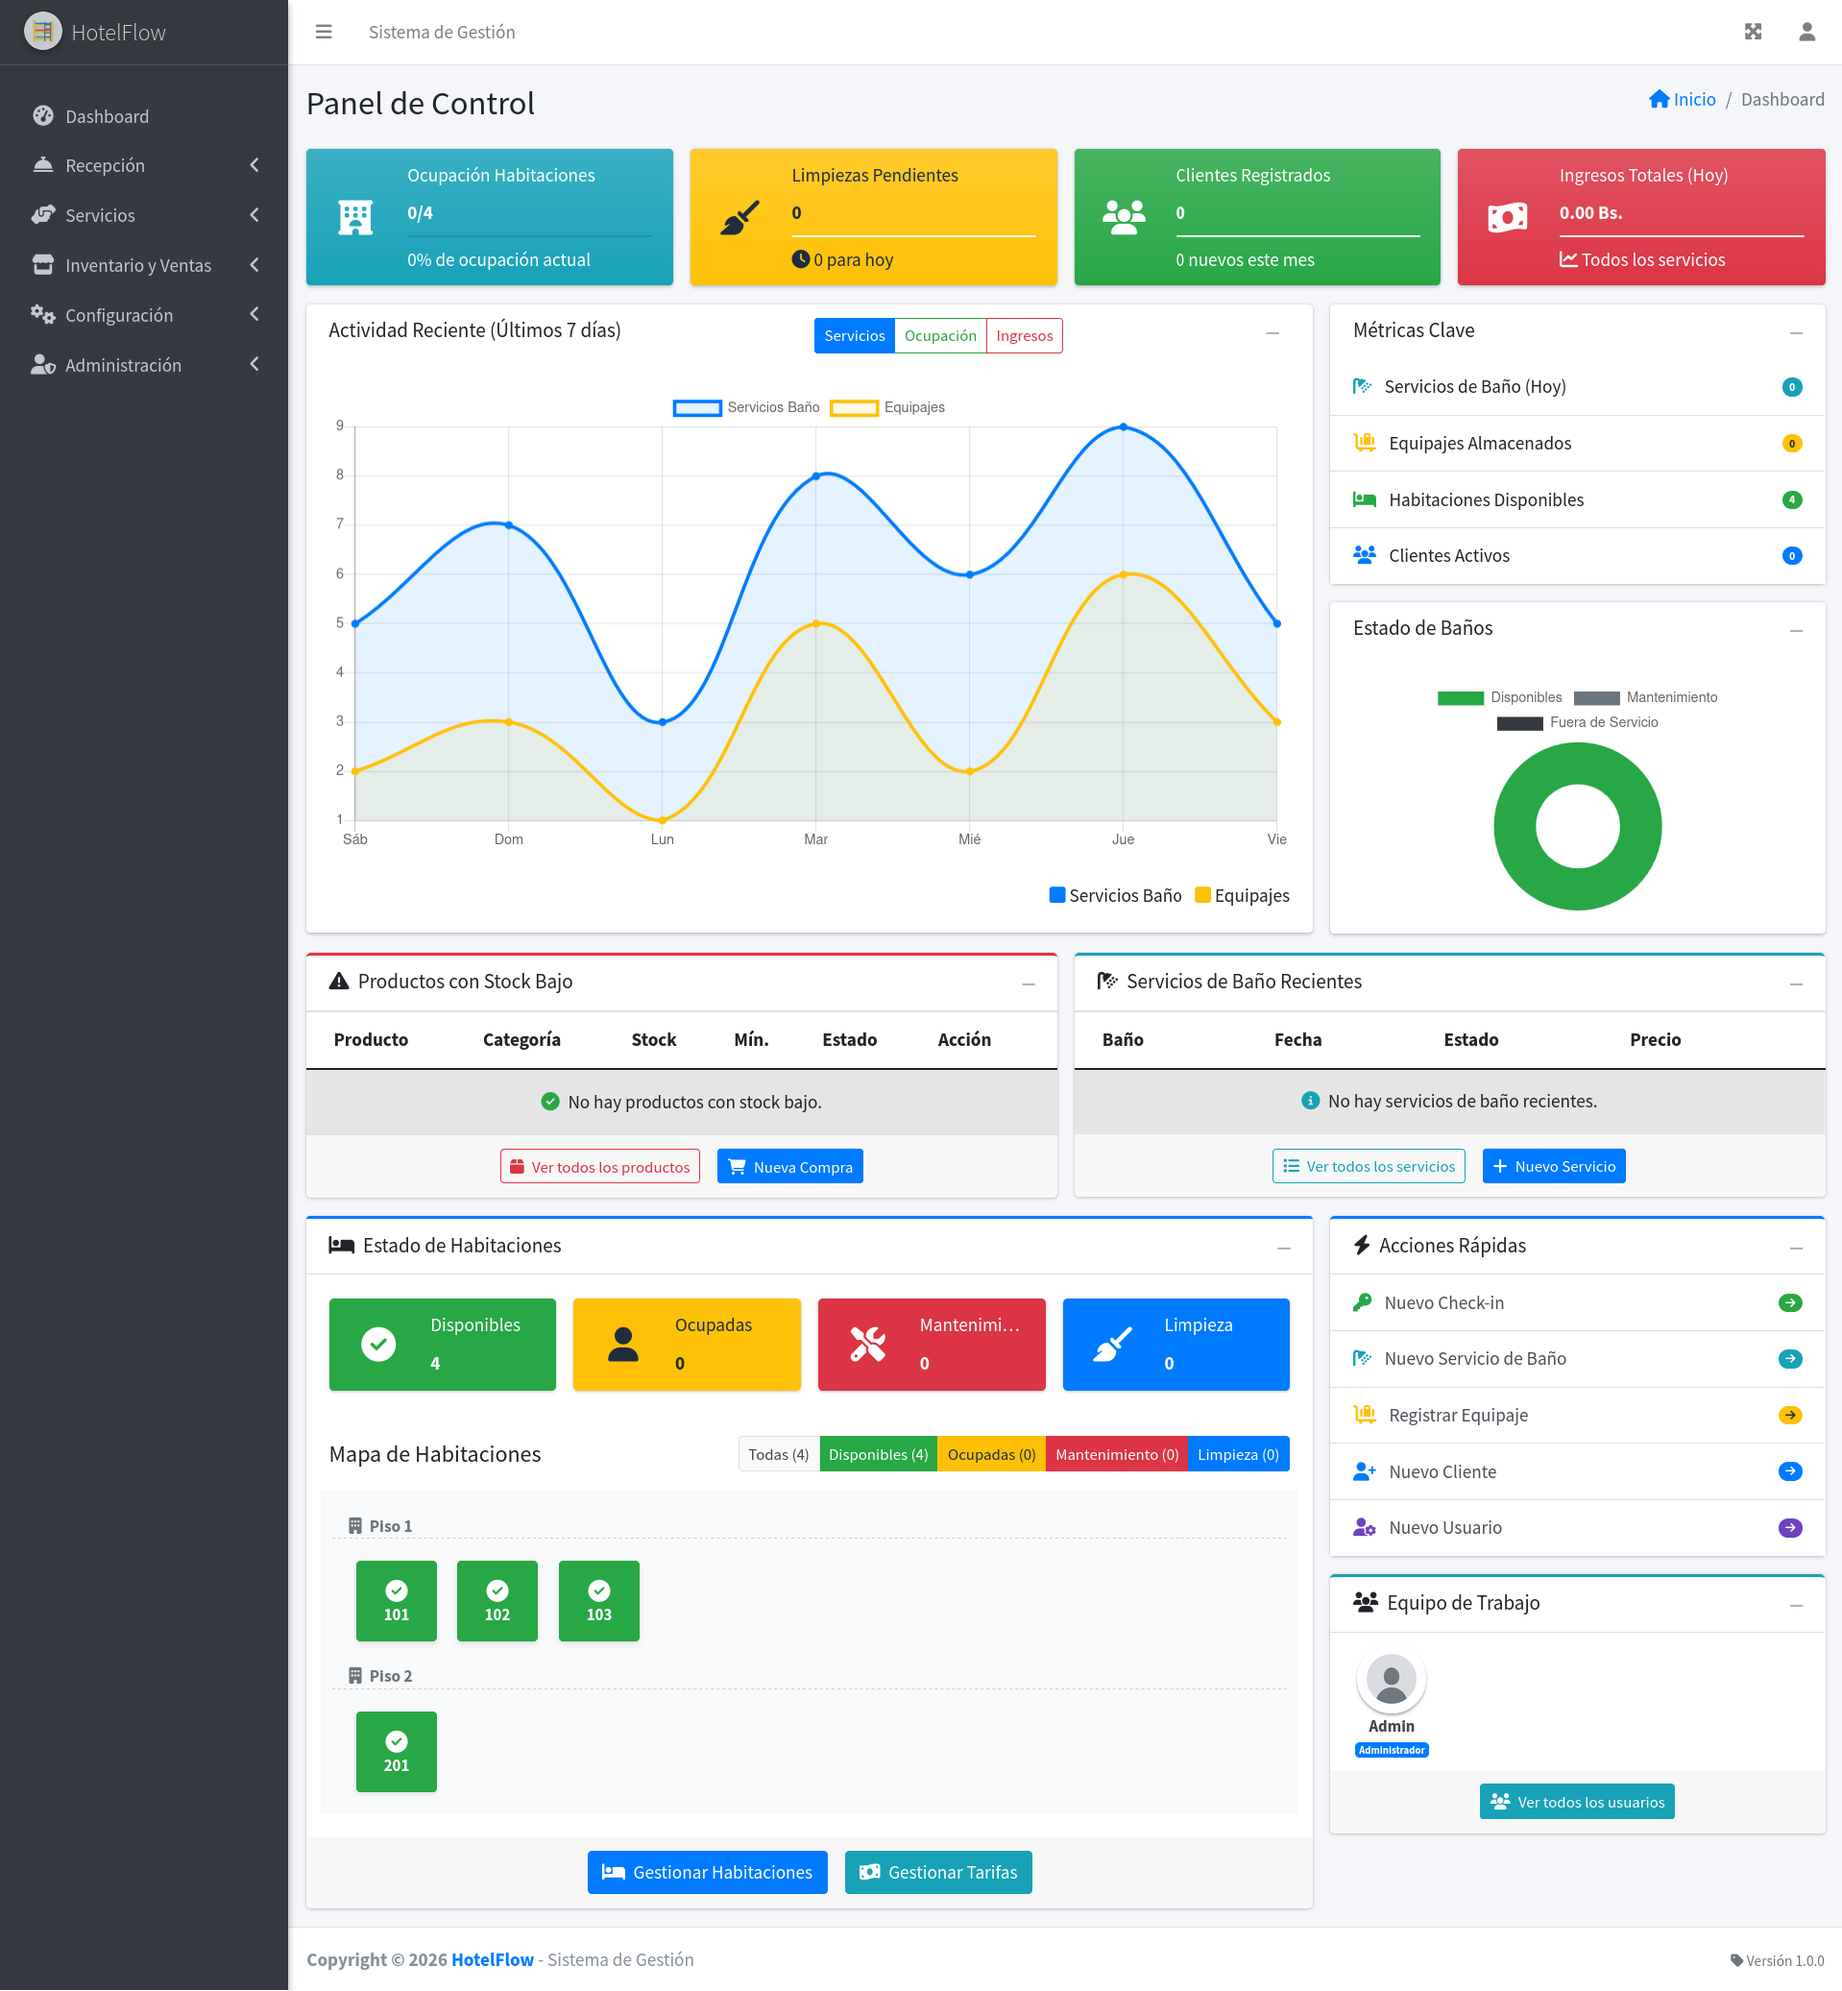
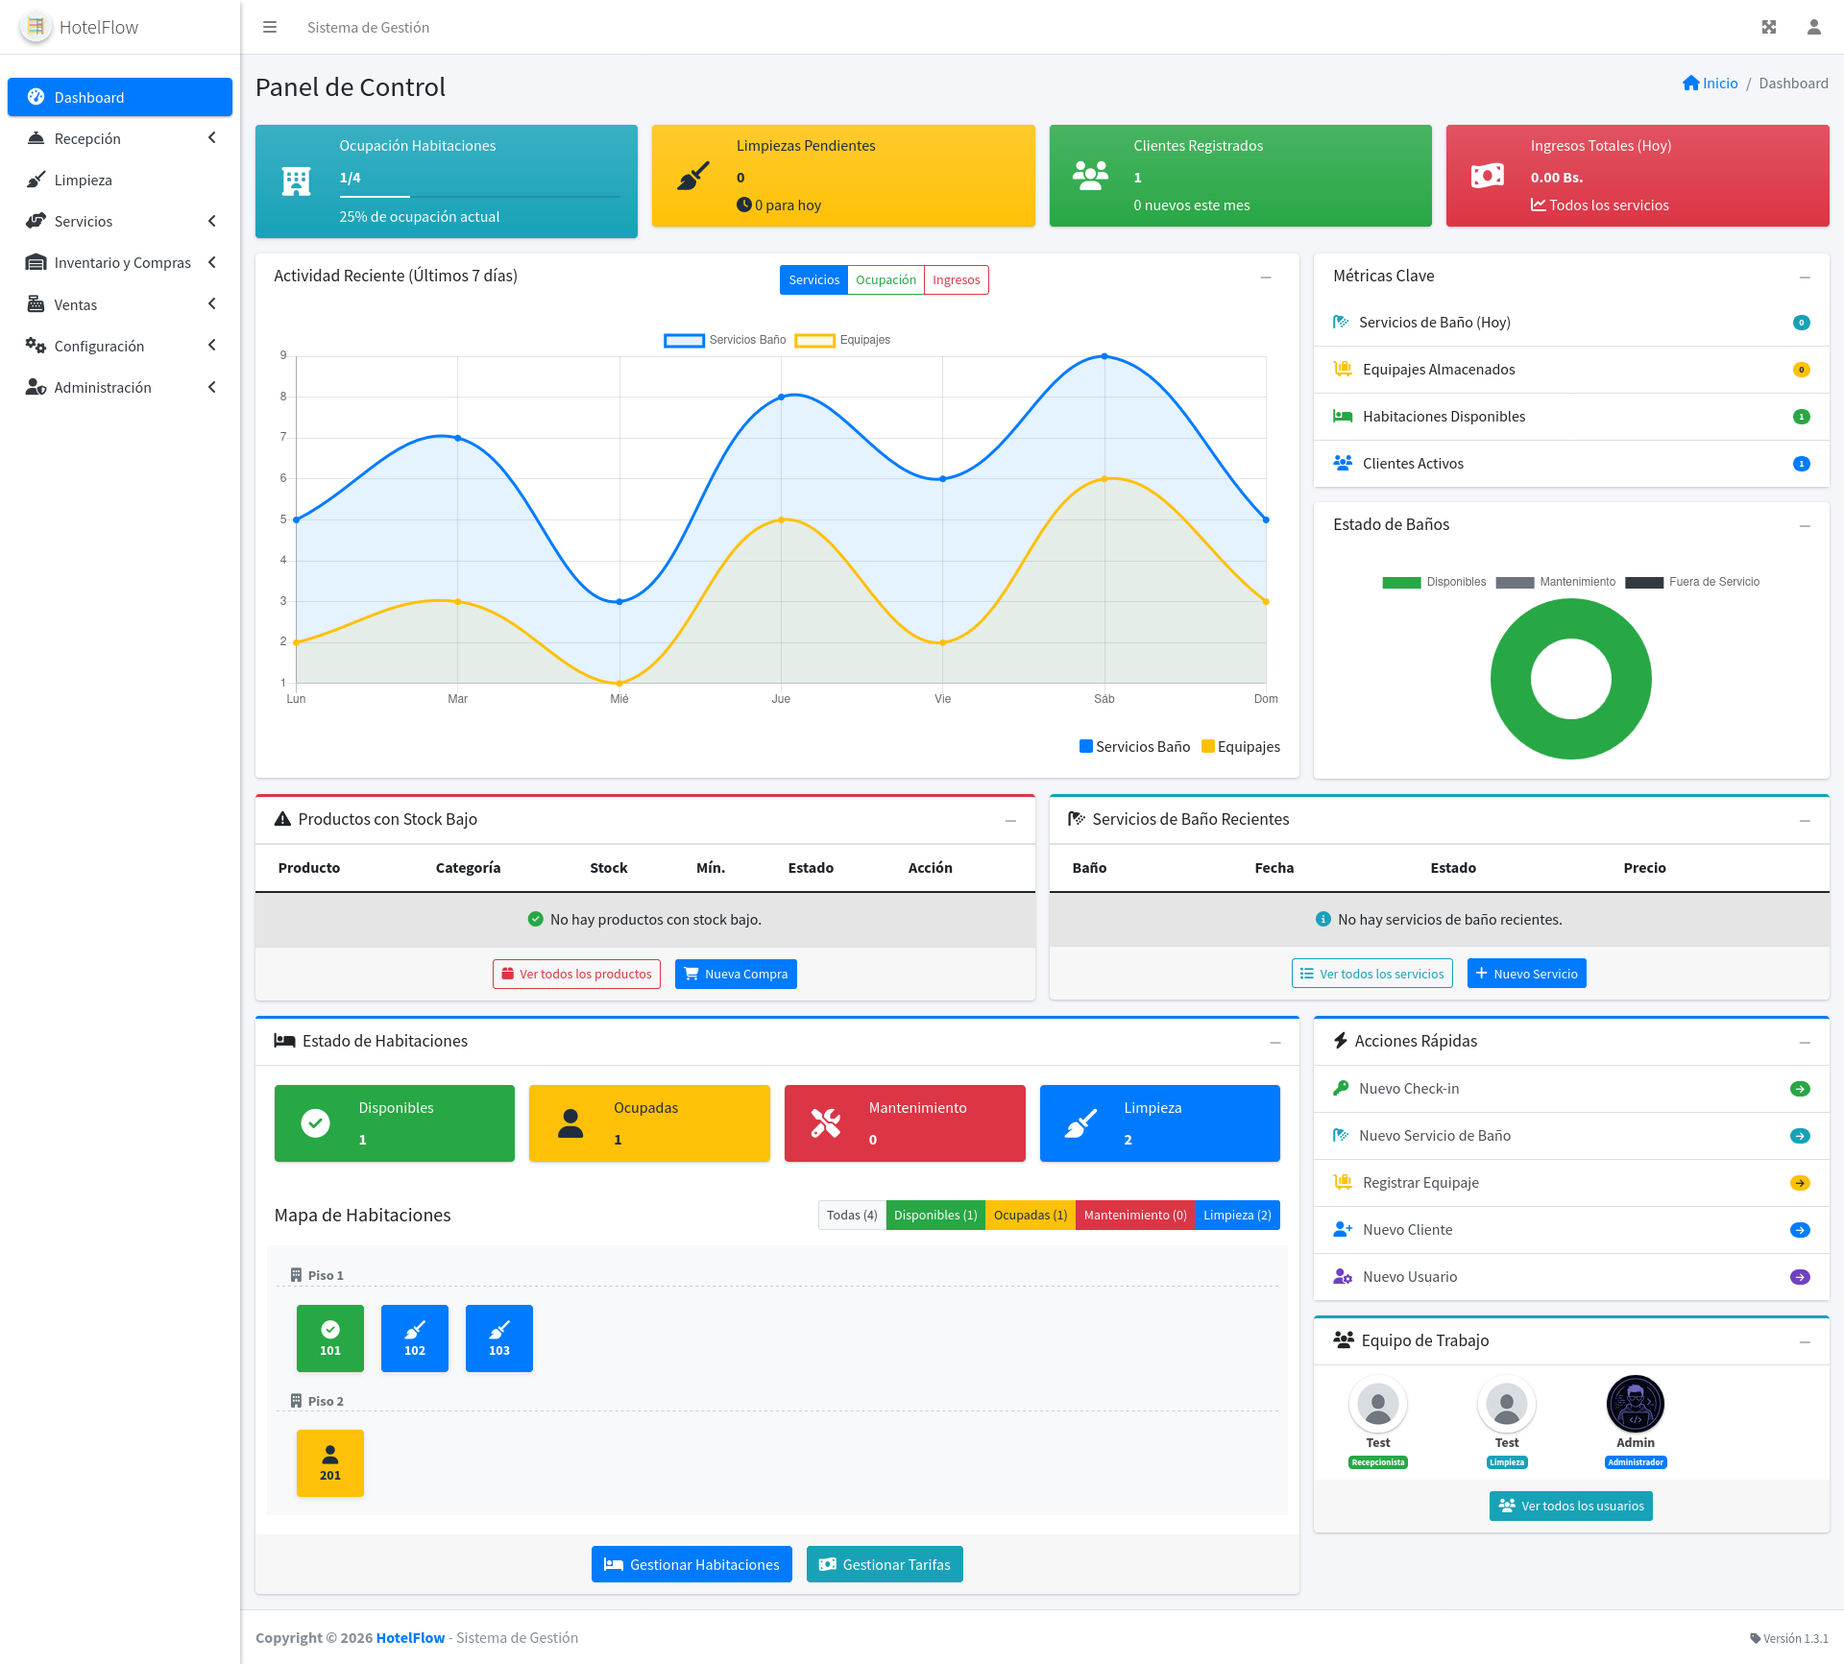
docs: actualizar capturas de login, dashboard y recepción

diff --git a/README.md b/README.md
@@ -53,7 +53,7 @@ Gestión de habitaciones por tipo, piso y estado de ocupación.
 
 ### Recepción
 
-Proceso de check-in/check-out y registro de huéspedes.
+Panel único con tabs Hoy / Mapa de habitaciones / Historial y KPIs del día.
 
 ![Recepción](public/img/screenshots/recepcion.png)
 
